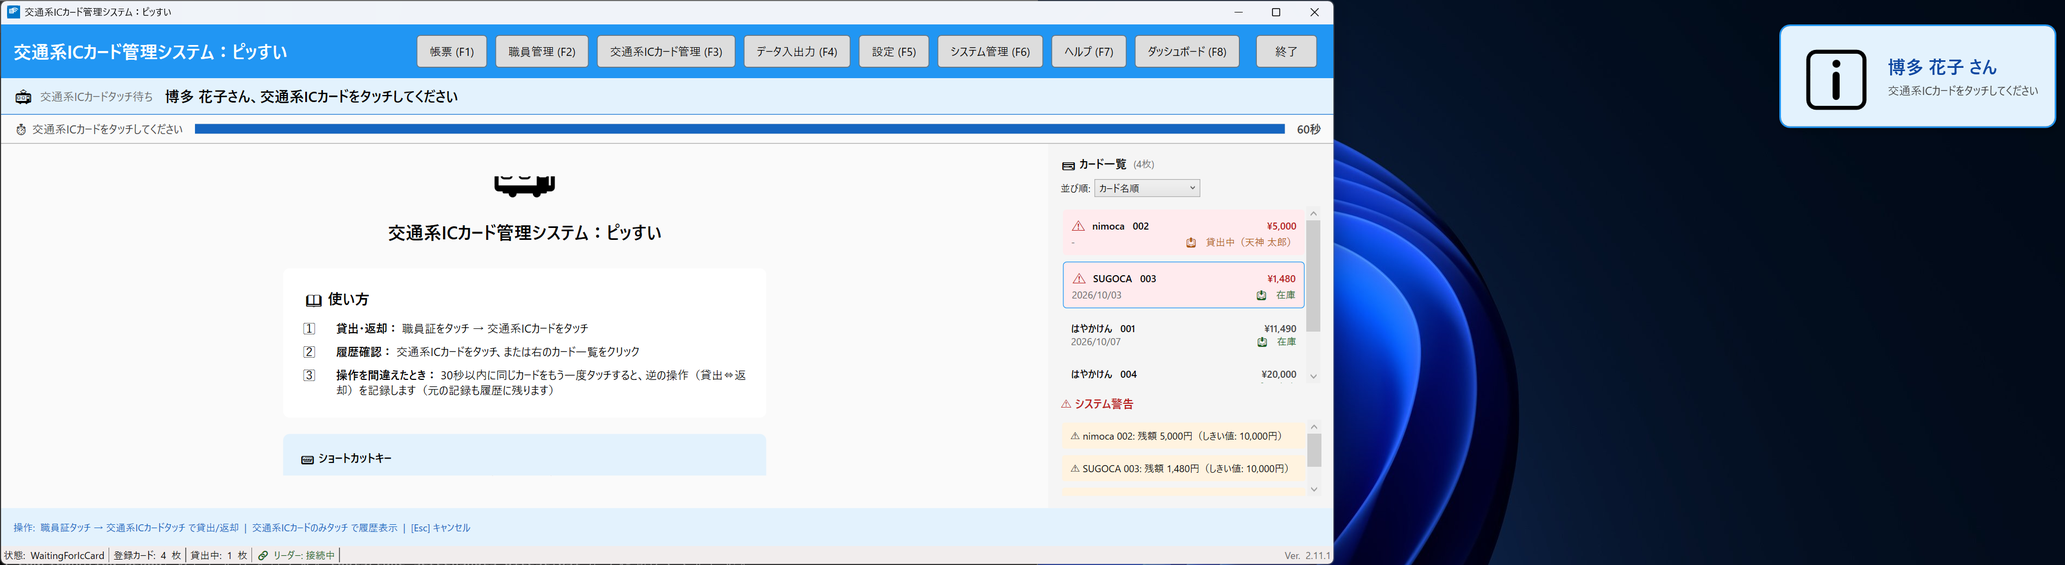
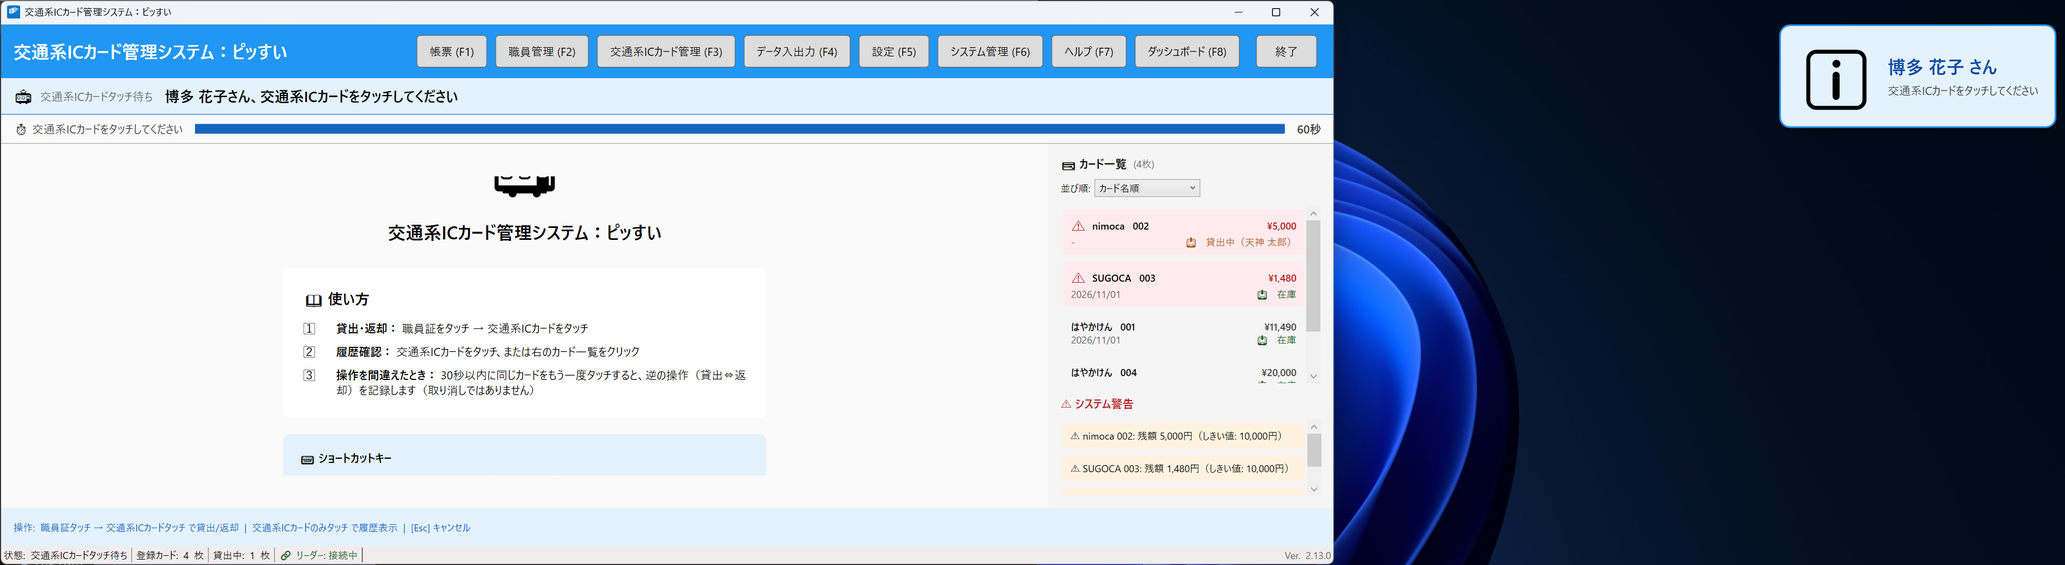
chore: UI テスト全件の再実行と、追随漏れのテスト 2 件の修正・スクリーンショット 5 枚の撮り直し (#2392)
* test: 明細の保存に職員証認証が入った（#2265）のに追随していなかった履歴詳細の UI テスト 2 件を直した

「統合を保存した後は閉じても確認が出ず…」「分割を保存すると確認なしに自動で閉じること」は、
#2265（PR #2280）で明細の保存に職員証認証が入った後も認証を通さずに待っていたため、
認証ダイアログが開いたまま失敗していた。分割（別々の履歴に分割）のテストと同じく仮想タッチで
認証を通し、Debug 起動のときだけ実行する。

Claude-Session: https://claude.ai/code/session_015oomTQ2dRFweay62Pkst8V

* docs: 現在の画面と食い違っていたスクリーンショット 5 枚を撮り直した

- incomplete_busstop.png / connection_diagnostics.png: ボタンの並び（閉じるを左・主操作を右）と「再診断」の主操作色（#2332）
- history.png / history_merge.png: ステータスバーの状態名を日本語で表示（#2308）
- system.png: バックアップ状況の「バックアップ先の最終変更」の行

Claude-Session: https://claude.ai/code/session_015oomTQ2dRFweay62Pkst8V

* fix: 履歴画面の撮影データの日付が月初に全行そろうのを直し、管理者マニュアル付録 B の「接続をテスト」の記述を現行画面に合わせた（PR #2392 レビュー指摘 1 回目）

- ScreenshotSeedData: 履歴画面の撮影用 SeedForHistoryScreenshot を追加。今日がサンプルの最後の日（12 日）より前なら
  前月に置き、撮影日によらず日付が散らばるようにした。history / history_merge の撮影はその月へ「前の月」で移ってから撮る。
  既存の Seed は当月に収める挙動のまま（今月の履歴を前提にする UI テストが多いため）
- ScreenshotSeedDataDateTests: 2 年分の撮影日で、日付がそろわない・投入順・未来日なし・1 か月に収まることと、
  当月／前月の置き分けを固定（CI で走る非 UI テスト）
- 07_テスト設計書 ST-007b: Debug 限定は No.3〜5
- 管理者マニュアル付録 B: 「接続をテスト」ボタン（接続診断へ統合済み）の記述と結果表を削り、接続診断の説明へ置き換えた

Claude-Session: https://claude.ai/code/session_015oomTQ2dRFweay62Pkst8V

* docs: 履歴画面のスクリーンショット 2 枚を日付の散らばる撮影データで撮り直し、07 の件数を実測に合わせた

- history.png / history_merge.png: 月初の撮影でも R8.10.1〜R8.10.12 に散らばる（SeedForHistoryScreenshot）
- 07_テスト設計書 §1.1a: UI 146 件・合計 9,878 件（ScreenshotSeedDataDateTests 2 件を追加）

Claude-Session: https://claude.ai/code/session_015oomTQ2dRFweay62Pkst8V
[…]

diff --git a/ICCardManager/tests/ICCardManager.UITests/Infrastructure/ScreenshotSeedData.cs b/ICCardManager/tests/ICCardManager.UITests/Infrastructure/ScreenshotSeedData.cs
@@ -304,10 +304,46 @@ namespace ICCardManager.UITests.Infrastructure
                 "INSERT OR REPLACE INTO settings (key, value) VALUES (@key, @value)",
                 ("@key", key), ("@value", value));
 
+        /// <summary>通常カードのサンプル履歴で使う日のうち、最も遅い日（月内の日）。</summary>
+        internal const int LatestHistorySampleDay = 12;
+
+        /// <summary>通常カードのサンプル履歴の最後の行（<see cref="LatestHistorySampleDay"/> 日）の摘要。撮影側が表示完了の目印にする。</summary>
+        internal const string LatestHistorySampleSummary = "鉄道（博多～貝塚）";
+
         /// <summary>
-        /// サンプルデータを投入する。
+        /// サンプルデータを投入する。通常カードの利用履歴は当月に収める（月初は今日の日付で頭打ちにする）。
         /// </summary>
-        public static void Seed(SQLiteConnection conn)
+        /// <remarks>
+        /// 履歴を開いて行を操作する UI テストの多くが「既定の表示（今月）に行がある」ことを前提にするため、
+        /// 日付が今日へ寄ることより、当月に収まることを優先する。履歴そのものを撮る画像は
+        /// <see cref="SeedForHistoryScreenshot"/> を使う。
+        /// </remarks>
+        public static void Seed(SQLiteConnection conn) =>
+            SeedCore(conn, day => DayOfMonth(DateTime.Today, day));
+
+        /// <summary>
+        /// 履歴画面の撮影（<c>history.png</c> / <c>history_merge.png</c>）用。通常カードの利用履歴を
+        /// <see cref="HistorySampleMonth"/> の月に置き、撮影日によらず日付が散らばるようにする。
+        /// </summary>
+        /// <remarks>
+        /// <see cref="Seed"/> は月初に撮ると全行が今日（例: R8.11.1）にそろい、利用日ごとに 1 行という
+        /// 物品出納簿の説明図として読めなくなる。撮影側は、この月が前月なら「前の月」で表示を合わせる。
+        /// </remarks>
+        public static void SeedForHistoryScreenshot(SQLiteConnection conn) =>
+            SeedCore(conn, day => HistorySampleDay(DateTime.Today, day));
+
+        /// <summary>
+        /// 履歴画面の撮影で通常カードの履歴を置く月の 1 日。今日が <see cref="LatestHistorySampleDay"/> 日以降なら当月、
+        /// それより前なら前月（当月に置くと、今日より後の日付になるか、今日へ寄せて日付がそろうため）。
+        /// </summary>
+        internal static DateTime HistorySampleMonth(DateTime today) =>
+            today.Day >= LatestHistorySampleDay ? new DateTime(today.Year, today.Month, 1) : FirstDayOfPreviousMonth(today);
+
+        /// <summary><see cref="HistorySampleMonth"/> の <paramref name="day"/> 日。</summary>
+        internal static DateTime HistorySampleDay(DateTime today, int day) =>
+            HistorySampleMonth(today).AddDays(day - 1);
+
+        private static void SeedCore(SQLiteConnection conn, Func<int, DateTime> normalCardDay)
         {
             if (conn == null)
             {
@@ -330,15 +366,15 @@ namespace ICCardManager.UITests.Infrastructure
             InsertCard(conn, LentCardIdm, LentCardType, LentCardNumber, isLent: true, lentAt: now, lentStaff: SecondaryStaffIdm);
             InsertCard(conn, LowBalanceCardIdm, LowBalanceCardType, LowBalanceCardNumber, isLent: false, lentAt: null, lentStaff: null);
 
-            // 通常カード: 当月の利用履歴（新規購入 → 利用 → チャージ → 利用）。残額は順に計算する。
+            // 通常カードの利用履歴（月は呼び出し側が normalCardDay で決める。新規購入 → 利用 → チャージ → 利用）。残額は順に計算する。
             var balance = 0;
-            balance = InsertLedger(conn, NormalCardIdm, DayOfMonth(today, 1), "新規購入", income: 10000, expense: 0, balance, PrimaryStaffName);
-            balance = InsertLedger(conn, NormalCardIdm, DayOfMonth(today, 2), "鉄道（博多～天神）", 0, 260, balance, PrimaryStaffName);
-            balance = InsertLedger(conn, NormalCardIdm, DayOfMonth(today, 2), "バス（博多駅前～天神）", 0, 230, balance, PrimaryStaffName);
-            balance = InsertLedger(conn, NormalCardIdm, DayOfMonth(today, 5), "鉄道（博多～薬院 往復）", 0, 420, balance, SecondaryStaffName, SecondaryStaffIdm);
-            balance = InsertLedger(conn, NormalCardIdm, DayOfMonth(today, 8), "役務費によりチャージ", 3000, 0, balance, PrimaryStaffName);
-            balance = InsertLedger(conn, NormalCardIdm, DayOfMonth(today, 8), "鉄道（天神～福岡空港）", 0, 260, balance, PrimaryStaffName);
-            balance = InsertLedger(conn, NormalCardIdm, DayOfMonth(today, 12), "鉄道（博多～貝塚）", 0, 340, balance, SecondaryStaffName, SecondaryStaffIdm);
+            balance = InsertLedger(conn, NormalCardIdm, normalCardDay(1), "新規購入", income: 10000, expense: 0, balance, PrimaryStaffName);
+            balance = InsertLedger(conn, NormalCardIdm, normalCardDay(2), "鉄道（博多～天神）", 0, 260, balance, PrimaryStaffName);
+            balance = InsertLedger(conn, NormalCardIdm, normalCardDay(2), "バス（博多駅前～天神）", 0, 230, balance, PrimaryStaffName);
+            balance = InsertLedger(conn, NormalCardIdm, normalCardDay(5), "鉄道（博多～薬院 往復）", 0, 420, balance, SecondaryStaffName, SecondaryStaffIdm);
+            balance = InsertLedger(conn, NormalCardIdm, normalCardDay(8), "役務費によりチャージ", 3000, 0, balance, PrimaryStaffName);
+            balance = InsertLedger(conn, NormalCardIdm, normalCardDay(8), "鉄道（天神～福岡空港）", 0, 260, balance, PrimaryStaffName);
+            balance = InsertLedger(conn, NormalCardIdm, normalCardDay(LatestHistorySampleDay), LatestHistorySampleSummary, 0, 340, balance, SecondaryStaffName, SecondaryStaffIdm);
             _ = balance;
 
             // 貸出中カード: 新規購入の後、貸出中レコード（is_lent_record=1）。

diff --git a/ICCardManager/tests/ICCardManager.UITests/Tests/ManualScreenshotTests.cs b/ICCardManager/tests/ICCardManager.UITests/Tests/ManualScreenshotTests.cs
@@ -153,11 +153,29 @@ namespace ICCardManager.UITests.Tests
         {
             Skip.If(ScreenshotHelper.ShouldSkip, SkipReason);
 
-            using var fixture = AppFixture.LaunchWithSeed(ScreenshotSeedData.Seed);
+            using var fixture = AppFixture.LaunchWithSeed(ScreenshotSeedData.SeedForHistoryScreenshot);
             ScreenshotHelper.MoveToTopLeft(fixture.MainWindow);
             var page = new MainWindowPage(fixture.MainWindow, fixture.Automation);
 
-            page.OpenCardHistory(ScreenshotSeedData.NormalCardDisplayName);
+            try
+            {
+                page.OpenCardHistory(ScreenshotSeedData.NormalCardDisplayName);
+                ShowHistorySampleMonth(page);
+            }
+            catch (Exception)
+            {
+                // 失敗時の画面を残す（history_履歴照会画面 と同じ切り分け用。型で絞らない理由も同じ）
+                try
+                {
+                    ScreenshotHelper.Capture(fixture.MainWindow, "history_merge_FAILED.png");
+                }
+                catch (Exception)
+                {
+                    // 切り分け用の撮影に失敗しても、元の失敗の原因を失わないよう握りつぶして元の例外を投げ直す
+                }
+
+                throw;
+            }
 
             // 統合の説明図なので、チェック済みの行が写っていることが要点。
             // 実際の統合（職員認証を伴う）は実行しない
@@ -334,18 +352,28 @@ namespace ICCardManager.UITests.Tests
         {
             Skip.If(ScreenshotHelper.ShouldSkip, SkipReason);
 
-            using var fixture = AppFixture.LaunchWithSeed(ScreenshotSeedData.Seed);
+            using var fixture = AppFixture.LaunchWithSeed(ScreenshotSeedData.SeedForHistoryScreenshot);
             ScreenshotHelper.MoveToTopLeft(fixture.MainWindow);
             var page = new MainWindowPage(fixture.MainWindow, fixture.Automation);
 
             try
             {
                 page.OpenCardHistory(ScreenshotSeedData.NormalCardDisplayName);
+                ShowHistorySampleMonth(page);
             }
-            catch (System.TimeoutException)
+            catch (Exception)
             {
-                // 失敗時の画面を残す（履歴が開かない原因の切り分け用。docs/screenshots/auto/ は Git 管理外）
-                ScreenshotHelper.Capture(fixture.MainWindow, "history_FAILED.png");
+                // 失敗時の画面を残す（履歴が開かない・サンプルの月へ移れない原因の切り分け用。docs/screenshots/auto/ は Git 管理外）。
+                // OpenCardHistory は TimeoutException、ShowHistorySampleMonth は FluentAssertions の例外で失敗するため、型で絞らない
+                try
+                {
+                    ScreenshotHelper.Capture(fixture.MainWindow, "history_FAILED.png");
+                }
+                catch (Exception)
+                {
+                    // 切り分け用の撮影に失敗しても、元の失敗の原因を失わないよう握りつぶして元の例外を投げ直す
+                }
+
                 throw;
             }
 
@@ -451,6 +479,30 @@ namespace ICCardManager.UITests.Tests
                 TimeSpan.FromSeconds(TestConstants.OperationLogDialogOpenTimeoutSeconds)).Result;
             row.Should().NotBeNull(because);
             return row!;
+        }
+
+        /// <summary>
+        /// 開いた履歴の表示期間を、<see cref="ScreenshotSeedData.SeedForHistoryScreenshot"/> が履歴を置いた月に合わせ、
+        /// 最後のサンプル行が表示されるまで待つ（月初に撮ると前月に置くため、「前の月」で 1 か月戻す）。
+        /// </summary>
+        private static void ShowHistorySampleMonth(MainWindowPage page)
+        {
+            var today = DateTime.Today;
+            var sampleMonth = ScreenshotSeedData.HistorySampleMonth(today);
+            if (sampleMonth.Month != today.Month || sampleMonth.Year != today.Year)
+            {
+                var previous = page.FindByNameWithRetry(TestConstants.HistoryPreviousMonthButton);
+                previous.Should().NotBeNull($"履歴の期間選択に「{TestConstants.HistoryPreviousMonthButton}」ボタンがあること");
+                previous!.AsButton().Invoke();
+            }
+
+            var label = sampleMonth.ToString("yyyy年M月", System.Globalization.CultureInfo.InvariantCulture);
+            Retry.WhileNull(() => page.Window.FindFirstDescendant(cf => cf.ByName(label)),
+                TimeSpan.FromSeconds(TestConstants.DialogOpenTimeoutSeconds)).Result
+                .Should().NotBeNull($"履歴の表示期間が「{label}」になること");
+            Retry.WhileNull(() => page.Window.FindFirstDescendant(cf => cf.ByName(ScreenshotSeedData.LatestHistorySampleSummary)),
+                TimeSpan.FromSeconds(TestConstants.DialogOpenTimeoutSeconds)).Result
+                .Should().NotBeNull($"履歴の一覧に最後のサンプル行「{ScreenshotSeedData.LatestHistorySampleSummary}」が表示されること");
         }
 
         private static void WaitForCardRow(MainWindowPage page, string cardDisplayName)

diff --git a/ICCardManager/tests/ICCardManager.UITests/Tests/ScreenshotSeedDataDateTests.cs b/ICCardManager/tests/ICCardManager.UITests/Tests/ScreenshotSeedDataDateTests.cs
@@ -1,0 +1,70 @@
+#nullable enable
+using System;
+using System.Linq;
+using FluentAssertions;
+using ICCardManager.UITests.Infrastructure;
+using Xunit;
+
+namespace ICCardManager.UITests.Tests
+{
+    /// <summary>
+    /// 履歴画面の撮影用サンプル（<see cref="ScreenshotSeedData.SeedForHistoryScreenshot"/>）の日付の決め方のテスト。
+    /// GUI 不要のため Category=UI を付けず、CI でも実行される。
+    /// </summary>
+    /// <remarks>
+    /// 月初に撮った <c>history.png</c> は、今日で頭打ちにする日付（<c>DayOfMonth</c>）のせいで全行が同じ日（R8.11.1）にそろっていた。
+    /// どの日に撮っても、サンプルの日がそれぞれ別の日付になり、今日より後にならないことを、2 年分の撮影日で走査して固定する。
+    /// </remarks>
+    public class ScreenshotSeedDataDateTests
+    {
+        /// <summary>通常カードのサンプル履歴が使う日（<c>ScreenshotSeedData.SeedCore</c> の投入順）。</summary>
+        private static readonly int[] SampleDays = { 1, 2, 2, 5, 8, 8, ScreenshotSeedData.LatestHistorySampleDay };
+
+        /// <summary>閏年（2 月 29 日）と年またぎ（1 月の撮影で前年 12 月へ戻る）を含む 2 年分の撮影日。</summary>
+        private static readonly DateTime[] CaptureDays =
+            Enumerable.Range(0, 731).Select(i => new DateTime(2027, 1, 1).AddDays(i)).ToArray();
+
+        [Fact]
+        public void どの日に撮っても_別々の日は別々の日付になり投入順に並び今日より後にならないこと()
+        {
+            foreach (var today in CaptureDays)
+            {
+                var dates = SampleDays.Select(d => ScreenshotSeedData.HistorySampleDay(today, d)).ToArray();
+
+                dates.Distinct().Count().Should().Be(SampleDays.Distinct().Count(),
+                    $"{today:yyyy-MM-dd} に撮っても、サンプルの別々の日が同じ日付にそろわないこと");
+                dates.Should().BeInAscendingOrder($"{today:yyyy-MM-dd} に撮っても、残高チェーンの投入順と日付の順が一致すること");
+                dates.Max().Should().BeOnOrBefore(today, $"{today:yyyy-MM-dd} に撮っても、未来の日付にならないこと");
+                dates.Select(x => (x.Year, x.Month)).Distinct().Should().ContainSingle(
+                    $"{today:yyyy-MM-dd} に撮っても、サンプルが 1 か月の表示に収まること");
+            }
+        }
+
+        /// <summary>
+        /// 対: 日数が足りる日は当月に置くこと（撮影側は「前の月」を押さずに撮れる）。前月へ倒すのは足りない日だけ。
+        /// </summary>
+        /// <remarks>
+        /// これが無いと、常に前月へ置く実装でも上のテストは緑になる。期待値は実装と同じ式で組み立てず、
+        /// 境界（最後のサンプルの日 12 日の前後）・年またぎ・月末の具体的な日付で書く。
+        /// </remarks>
+        [Theory]
+        [InlineData("2027-03-11", "2027-02-01", "2027-02-12")] // 12 日の前日 → 前月
+        [InlineData("2027-03-12", "2027-03-01", "2027-03-12")] // 12 日ちょうど → 当月（最後の行が今日）
+        [InlineData("2027-03-31", "2027-03-01", "2027-03-12")] // 月末 → 当月
+        [InlineData("2027-01-05", "2026-12-01", "2026-12-12")] // 1 月の月初 → 前年 12 月
+        [InlineData("2027-01-01", "2026-12-01", "2026-12-12")] // 元日 → 前年 12 月
+        [InlineData("2028-03-01", "2028-02-01", "2028-02-12")] // 閏年の 3 月 1 日 → 2 月
+        public void 今日がサンプルの最後の日以降なら当月に置き_それより前なら前月に置くこと(
+            string today, string expectedMonth, string expectedLatestDay)
+        {
+            var date = DateTime.ParseExact(today, "yyyy-MM-dd", System.Globalization.CultureInfo.InvariantCulture);
+
+            ScreenshotSeedData.HistorySampleMonth(date).Should().Be(
+                DateTime.ParseExact(expectedMonth, "yyyy-MM-dd", System.Globalization.CultureInfo.InvariantCulture),
+                $"{today} に撮ったときにサンプルを置く月");
+            ScreenshotSeedData.HistorySampleDay(date, ScreenshotSeedData.LatestHistorySampleDay).Should().Be(
+                DateTime.ParseExact(expectedLatestDay, "yyyy-MM-dd", System.Globalization.CultureInfo.InvariantCulture),
+                $"{today} に撮ったときの最後のサンプル行の日付");
+        }
+    }
+}

diff --git a/ICCardManager/tests/ICCardManager.UITests/Tests/LedgerDetailCloseGuardUiTests.cs b/ICCardManager/tests/ICCardManager.UITests/Tests/LedgerDetailCloseGuardUiTests.cs
@@ -85,16 +85,21 @@ namespace ICCardManager.UITests.Tests
         /// </summary>
         /// <remarks>
         /// 単一グループ（統合）の保存ではダイアログは自動で閉じず「保存しました」を表示する（自動で閉じるのは複数グループの保存だけ。#634）。
+        /// 明細の保存は職員証認証を挟む（#2265）。認証は DEBUG ビルドの仮想タッチでしか通せないため、Debug 起動のときだけ実行する。
         /// </remarks>
-        [Fact]
+        [SkippableFact]
         public void 統合を保存した後は閉じても確認が出ず変更がDBに反映されていること()
         {
+            Skip.If(!string.Equals(AppFixture.LaunchConfiguration, "Debug", StringComparison.Ordinal),
+                "Issue #2265: 明細の保存の職員証認証は仮想タッチ（DEBUG ビルド限定）でしか通せないため、Debug 起動のときだけ実行する。");
+
             using var fixture = AppFixture.LaunchWithSeed(RegressionSeedData.SeedWithLedgerDetails, AppFixture.SuppressDebugTestData);
             var detail = OpenLedgerDetail(fixture);
             CountGroupedDetails().Should().Be(0L, "前提: 投入直後の明細はグループを持たないこと");
 
             detail.ClickButton(TestConstants.LedgerDetailMergeAllButton);
             detail.ClickButton(TestConstants.LedgerDetailSaveButton);
+            TouchOperations.PassStaffAuthentication(fixture, detail.Window);
             detail.FindByNameWithRetry(TestConstants.LedgerDetailSavedMessage).Should().NotBeNull(
                 $"保存が終わったら「{TestConstants.LedgerDetailSavedMessage}」と表示されること");
             CountGroupedDetails().Should().Be(2L, "「すべて統合」を保存したので、明細 2 件がグループを持つこと");
@@ -107,9 +112,15 @@ namespace ICCardManager.UITests.Tests
         /// <summary>
         /// 分割して「摘要のみ更新」で保存すると、確認なしに自動で閉じること（#634 の自動クローズが #1743 の確認に止められない）。
         /// </summary>
-        [Fact]
+        /// <remarks>
+        /// 「摘要のみ更新」も明細の保存（<c>SaveAsync</c>）なので職員証認証を挟む（#2265）。Debug 起動のときだけ実行する。
+        /// </remarks>
+        [SkippableFact]
         public void 分割を保存すると確認なしに自動で閉じること()
         {
+            Skip.If(!string.Equals(AppFixture.LaunchConfiguration, "Debug", StringComparison.Ordinal),
+                "Issue #2265: 明細の保存の職員証認証は仮想タッチ（DEBUG ビルド限定）でしか通せないため、Debug 起動のときだけ実行する。");
+
             using var fixture = AppFixture.LaunchWithSeed(RegressionSeedData.SeedWithLedgerDetails, AppFixture.SuppressDebugTestData);
             var detail = OpenLedgerDetail(fixture);
 
@@ -117,6 +128,7 @@ namespace ICCardManager.UITests.Tests
             detail.WaitUntilEnabled(TestConstants.LedgerDetailSummaryOnlyButton).Should().BeTrue(
                 $"複数のグループに分けたら「{TestConstants.LedgerDetailSummaryOnlyButton}」で保存できること");
             detail.ClickButton(TestConstants.LedgerDetailSummaryOnlyButton);
+            TouchOperations.PassStaffAuthentication(fixture, detail.Window);
 
             DialogLocator.WaitUntilClosed(fixture, fixture.MainWindow, TestConstants.LedgerDetailDialogName)
                 .Should().BeTrue($"分割を保存したら、確認なしに自動で閉じること。開いていたウィンドウ: {DialogLocator.DescribeOpenWindows(fixture)}" +

diff --git a/ICCardManager/docs/manual/管理者マニュアル.md b/ICCardManager/docs/manual/管理者マニュアル.md
@@ -1468,7 +1468,7 @@ A5: 取り込めます。CSV の取り込みはいつでも実行できます。
 
 | 欄 | できること | 詳しい手順 |
 |----|-----------|-----------|
-| データベース情報 | 接続モードとデータベースの場所を確かめます。**接続をテスト** と **接続診断** のボタンがあります | [5.1](#51-まず接続診断を実行する) |
+| データベース情報 | 接続モードとデータベースの場所を確かめます。**接続診断** ボタンがあります | [5.1](#51-まず接続診断を実行する) |
 | 手動バックアップ | その場でバックアップを作ります。**バックアップフォルダを開く** ボタンもあります | [6.1](#61-手動バックアップ) |
 | リストア（データ復元） | バックアップからデータを戻します | [6.2](#62-リストア復元) |
 | バックアップ状況 | 最終成功日時・保持世代・空き容量・保存先を確かめます | [2.3](#23-バックアップが動いているか確かめる) |
@@ -1484,13 +1484,7 @@ A5: 取り込めます。CSV の取り込みはいつでも実行できます。
 | 💻 ローカルモード（このPCの中に保存されています） | この PC の中のデータベースに接続しています |
 | 現在のデータベース | 接続中のファイルのパスです。長いときは省略され、マウスを重ねると全体が表示されます |
 
-**接続をテスト** ボタンを押すと、読み取りと書き込みを順に確かめ、結果が画面下部に表示されます。
-
-| テスト結果 | 意味と対処 |
-|-----------|-----------|
-| 接続テストに成功しました | 読み取りも書き込みもできます。正常です |
-| 接続できません（到達不可） | ネットワークが切れているか、共有フォルダーを開けません。[5.5](#55-共有モードの警告が出る) を参照してください |
-| 書き込みができません | 接続はできますが、アクセス権が読み取り専用の可能性があります。IT 担当者へ連絡してください（IT担当者ガイド §3） |
+**接続診断** ボタンを押すと、データベースに接続できるか（「データベース到達性」）と書き込めるか（「データベース書込権限」）を含む 8 項目をまとめて確かめ、別の画面に結果を表示します。結果の見方と対処は [5.1](#51-まず接続診断を実行する) を参照してください。
 
 **操作ログの見方**
 
